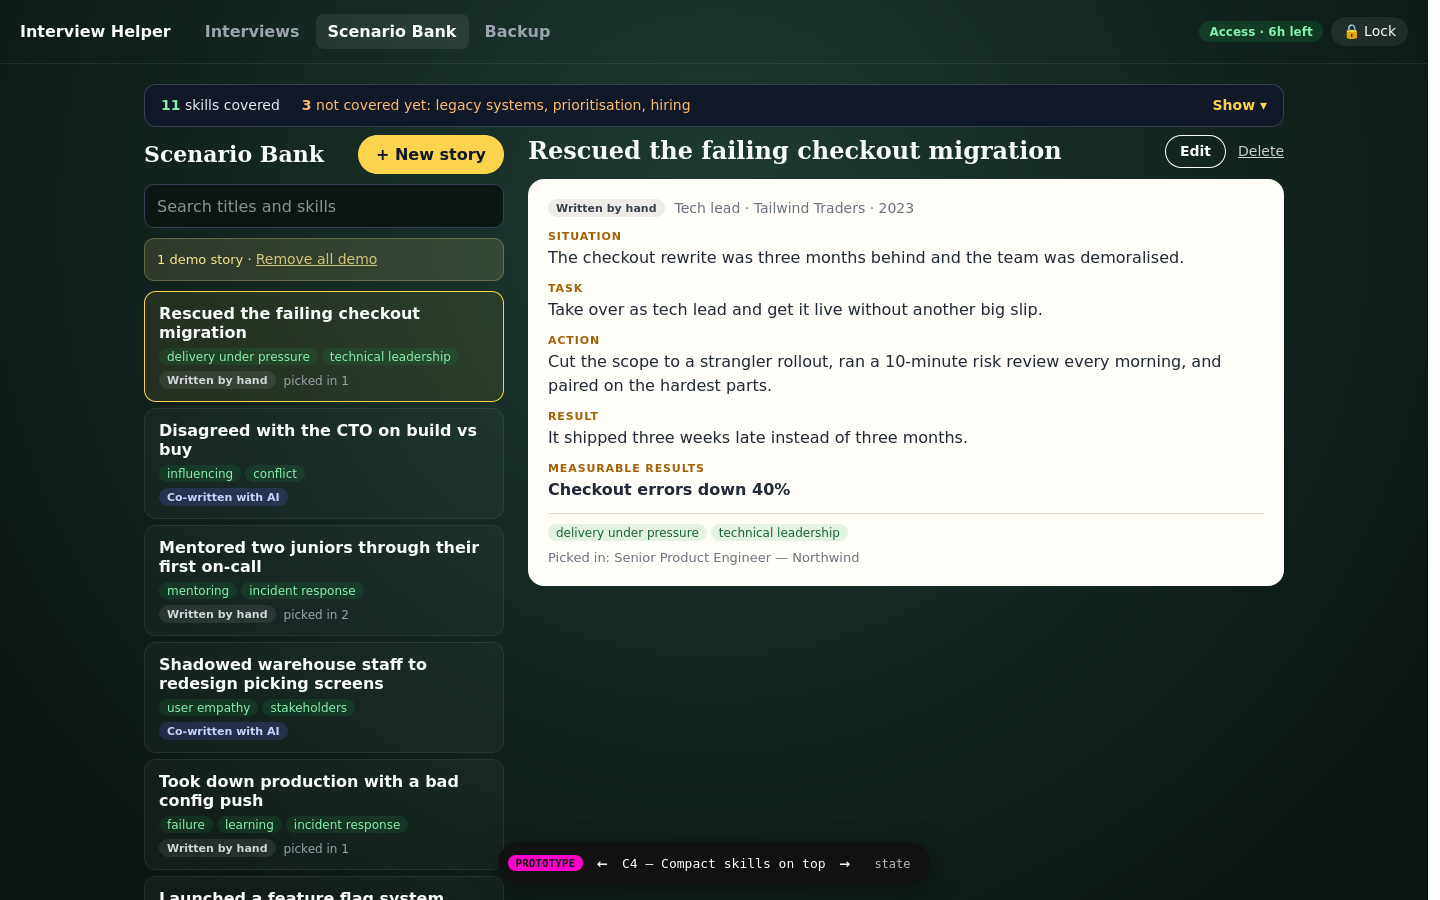
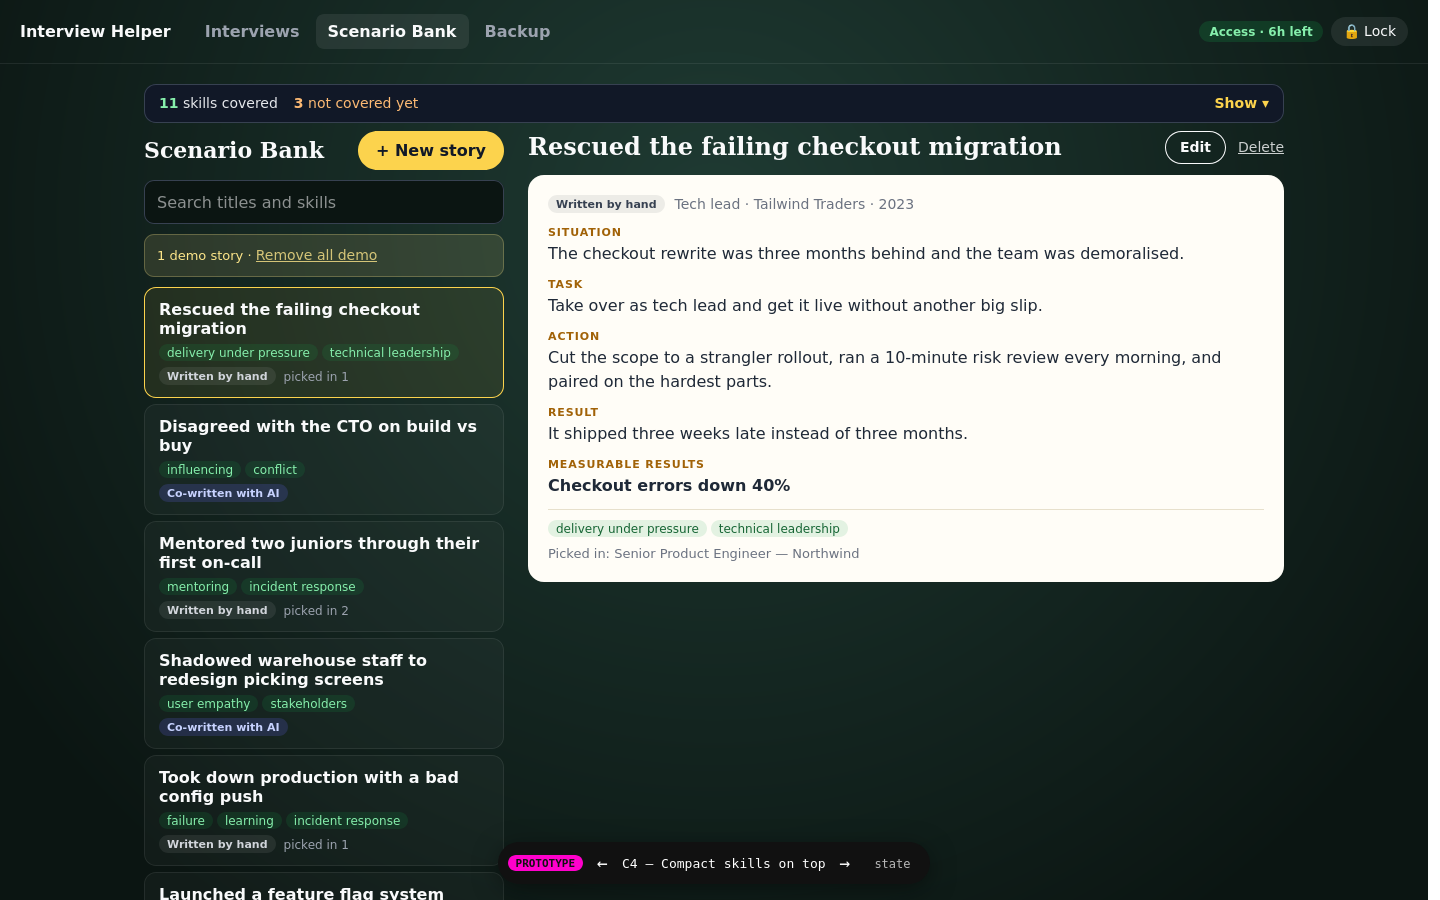
Prototype: shorter one-line hidden summary for C4

diff --git a/src/prototype/scenario-bank/Combined.tsx b/src/prototype/scenario-bank/Combined.tsx
@@ -112,9 +112,9 @@ export function CombinedBank({ bank, placement }: { bank: Bank; placement: Place
               {overview}
             </>
           ) : (
-            <button className="cb-strip-bar" onClick={() => setTopShown(true)} aria-expanded="false">
+            <button className="cb-strip-bar cb-mini" onClick={() => setTopShown(true)} aria-expanded="false">
               <span><strong>{tagCount}</strong> skills covered</span>
-              <span className="cb-strip-gaps"><strong>{GAP_SKILLS.length}</strong> not covered yet: {GAP_SKILLS.join(", ")}</span>
+              <span className="cb-strip-gaps"><strong>{GAP_SKILLS.length}</strong> not covered yet</span>
               <span className="cb-strip-toggle">Show ▾</span>
             </button>
           )}

diff --git a/src/prototype/scenario-bank/scenario-bank.css b/src/prototype/scenario-bank/scenario-bank.css
@@ -175,3 +175,5 @@
   .cb-top .cb-overview.is-compact { grid-template-columns: 1fr; }
   .cb-top .b3-skills { grid-template-columns: 1fr; }
 }
+.cb-mini { flex-wrap: nowrap; white-space: nowrap; gap: 16px; padding: 10px 14px; }
+@media (max-width: 640px) { .cb-mini { gap: 10px; font-size: 13px; padding: 10px 12px; } .cb-mini .cb-strip-toggle { margin-left: auto; } }

diff --git a/docs/prototypes/scenario-bank/README.md b/docs/prototypes/scenario-bank/README.md
@@ -39,7 +39,7 @@ B1's list and reading pane is the core in every variant; only where B3's skills 
 
 ## Round 3 — 2026-09-28
 
-C4 — Compact skills on top: C2's compact overview (the top four skills in two columns, and the uncovered skills as chips with +) placed across the top of the page. It's shown by default. **Hide ▴** folds it into C3's one-line summary ("11 skills covered · 3 not covered yet: …"), and **Show ▾** brings it back. B1's list and reading pane sit underneath as before. `?hidden=1` opens it folded.
+C4 — Compact skills on top: C2's compact overview (the top four skills in two columns, and the uncovered skills as chips with +) placed across the top of the page. It's shown by default. **Hide ▴** folds it into a single short line, "11 skills covered · 3 not covered yet · Show ▾", which fits on one line on a phone too (the uncovered skill names are left out). **Show ▾** brings the overview back. B1's list and reading pane sit underneath as before. `?hidden=1` opens it folded.
 
 | State | Desktop | Galaxy S25 (360×780) |
 |---|---|---|
